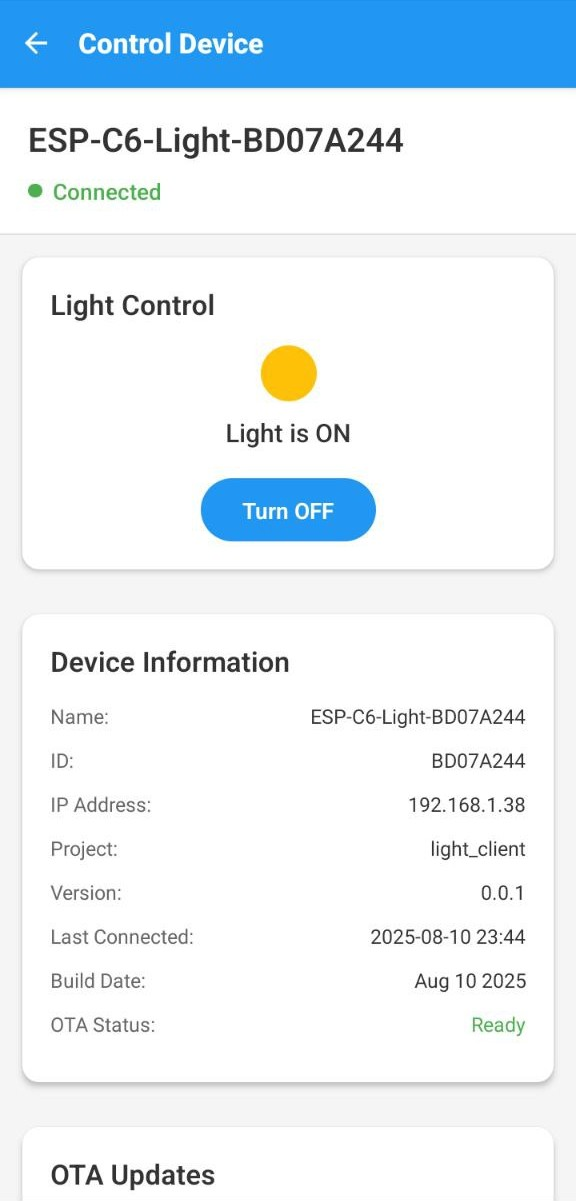
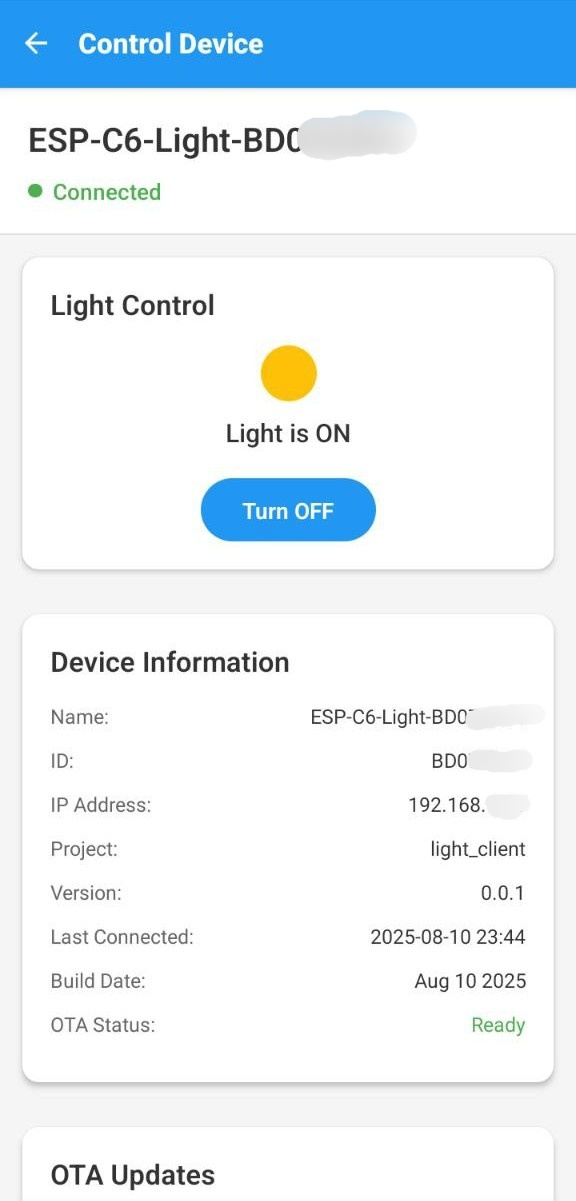
update esp32_smartlight.md and blur image sensetive data

Changed region(s): [[0.5, 0.0924, 0.7188, 0.154], [0.8125, 0.5853, 0.9062, 0.6778]]

diff --git a/_projects/esp32_smart_light.md b/_projects/esp32_smart_light.md
@@ -36,7 +36,8 @@ from low-level embedded development to network protocols and update mechanisms.
 
 ## 📂 Repository
 
-🔗 [View on GitHub]() (_coming soon_)
+- 📱 [Mobile App](https://github.com/Tuominen04/idf-light-controller)  
+- 💡 [ESP32 Hardware](https://github.com/Tuominen04/esp32-smartlight)
 
 <br/>
 
@@ -73,7 +74,7 @@ This process allows the device to join your local network without hardcoding cre
         {% include figure.liquid loading="eager" path="assets/img/esp32_project/mobile_app/esp32_send_wifi_credentials.jpg" title="BLE WiFi setup screen" class="img-fluid rounded z-depth-1" max-width="350px" %}
     </div>
     <div class="col-sm mt-md-0">
-        {% include figure.liquid loading="eager" path="assets/img/esp32_project/hardware_logs/esp32_wifi_set_up_log.png" title="WiFi Set Up Logs" class="img-fluid rounded z-depth-1" max-width="600px" %}
+        {% include figure.liquid loading="eager" path="assets/img/esp32_project/hardware_logs/esp32_wifi_set_up_log.jpg" title="WiFi Set Up Logs" class="img-fluid rounded z-depth-1" max-width="600px" %}
     </div>
 </div>
 <div class="caption">
@@ -120,7 +121,7 @@ The screenshot below shows the OTA update process in progress, allowing you to s
         {% include figure.liquid loading="eager" path="assets/img/esp32_project/mobile_app/esp32_ota_update.jpg" title="OTA Update Screen" class="img-fluid rounded z-depth-1" max-width="350px" %}
     </div>
     <div class="col-sm mt-md-0">
-        {% include figure.liquid loading="eager" path="assets/img/esp32_project/hardware_logs/esp32_ota_update_log.png" title="OTA Update Logs" class="img-fluid rounded z-depth-1" %}
+        {% include figure.liquid loading="eager" path="assets/img/esp32_project/hardware_logs/esp32_ota_update_log.jpg" title="OTA Update Logs" class="img-fluid rounded z-depth-1" %}
     </div>
 </div>
 <div class="caption">
